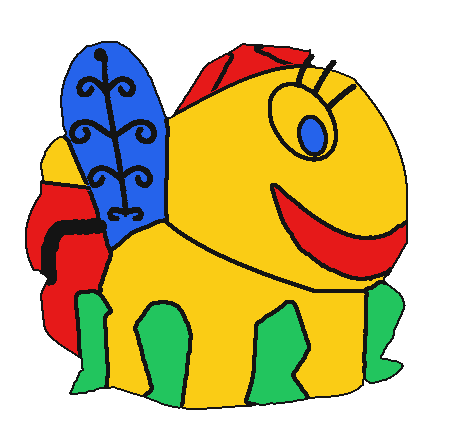
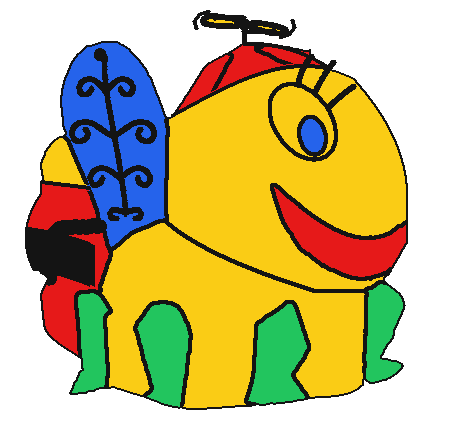
feat(lightning-bug): add spinning beanie propeller, extended cap, and segmented tail

Changed region(s): [[0.3957, 0.0, 0.6391, 0.1193], [0.0609, 0.5069, 0.213, 0.656], [0.6391, 0.1193, 0.7, 0.1491]]

diff --git a/simulator/app.js b/simulator/app.js
@@ -235,7 +235,7 @@ lightningBugImg.onload = () => {
     lightningBugLoaded = true;
     notifyFloatImgLoaded();
 };
-lightningBugImg.src = 'assets/lightning_bug.png?v=20261105_eyelashes';
+lightningBugImg.src = 'assets/lightning_bug.png?v=20261105_propeller_and_tail';
 
 const lightningBugTransparentImg = new Image();
 let lightningBugTransparentLoaded = false;
@@ -243,7 +243,7 @@ lightningBugTransparentImg.onload = () => {
     lightningBugTransparentLoaded = true;
     notifyFloatImgLoaded();
 };
-lightningBugTransparentImg.src = 'assets/lightningbug_transparent.png?v=20261105_eyelashes';
+lightningBugTransparentImg.src = 'assets/lightningbug_transparent.png?v=20261105_propeller_and_tail';
 
 // Custom artwork image (if user uploads one or loads one from preset)
 let customArtworkImg = null;

diff --git a/scripts/lb_paint_facets.py b/scripts/lb_paint_facets.py
@@ -607,6 +607,94 @@ for pid, col in PART_COLOR.items():
 out[all_lines] = BLACK
 out[bg] = [0, 0, 0, 0]
 
+# --- 1. CAP EXTENSION TO TOUCH FOREHEAD CONTOUR PAST EYELASH 1 ---
+xs_dome = np.array([244, 265, 285, 305, 320, 330])
+ys_dome = np.array([43.0, 44.5, 47.5, 53.5, 61.0, 68.5])
+p_cap_dome = np.polyfit(xs_dome, ys_dome, 2)
+
+cap_ext = np.zeros((h, w), dtype=bool)
+for x in range(305, 331):
+    yt = int(np.round(np.polyval(p_cap_dome, x)))
+    yb = int(np.round(np.polyval(p_head_top, x)))
+    if yb >= yt:
+        cap_ext[yt:yb+1, x] = True
+
+# Paint cap extension Red
+out[cap_ext] = RED
+
+# Draw smooth black top dome outline across x in [244..330]
+cap_dome_line = np.zeros((h, w), dtype=bool)
+for x in range(244, 331):
+    yt = int(np.round(np.polyval(p_cap_dome, x)))
+    cap_dome_line[yt-1:yt+3, x] = True
+
+# Draw smooth black cap bottom rim outline across x in [171..330]
+cap_rim_line = np.zeros((h, w), dtype=bool)
+for x in range(171, 331):
+    yb = int(np.round(np.polyval(p_head_top, x)))
+    cap_rim_line[yb-1:yb+3, x] = True
+
+out[cap_dome_line] = BLACK
+out[cap_rim_line] = BLACK
+
+# Redraw eyelashes cleanly over hat front/forehead
+out[eyelash_mask] = BLACK
+
+# --- 2. CUTE CARTOON SPINNING PROPELLER ATOP RED BEANIE ---
+pts_l_blade = np.array([[244, 24], [232, 18], [210, 15], [202, 19], [203, 23], [214, 25], [234, 26]], dtype=np.int32)
+pts_r_blade = np.array([[244, 24], [256, 22], [274, 25], [286, 29], [285, 33], [272, 33], [254, 28]], dtype=np.int32)
+
+prop_color = np.zeros((h, w, 4), dtype=np.uint8)
+prop_lines = np.zeros((h, w), dtype=np.uint8)
+
+cv2.fillPoly(prop_color, [pts_l_blade, pts_r_blade], YELLOW.tolist())
+cv2.circle(prop_color, (244, 24), 4, YELLOW.tolist(), -1)
+
+# Spindle post from cap apex (244, 43) to hub (244, 24)
+cv2.line(prop_lines, (244, 43), (244, 24), 255, 3, cv2.LINE_AA)
+cv2.polylines(prop_lines, [pts_l_blade, pts_r_blade], True, 255, 3, cv2.LINE_AA)
+cv2.circle(prop_lines, (244, 24), 4, 255, 2, cv2.LINE_AA)
+
+# Cartoon spinning motion arcs
+pts_arc1 = np.array([[208, 11], [199, 14], [194, 21], [196, 28]], dtype=np.int32)
+pts_arc2 = np.array([[280, 37], [289, 34], [294, 27], [292, 20]], dtype=np.int32)
+cv2.polylines(prop_lines, [pts_arc1, pts_arc2], False, 255, 2, cv2.LINE_AA)
+cv2.ellipse(prop_lines, (244, 24), (32, 7), 6, 200, 270, 255, 2, cv2.LINE_AA)
+cv2.ellipse(prop_lines, (244, 24), (32, 7), 6, 20, 90, 255, 2, cv2.LINE_AA)
+
+out[prop_color[:, :, 3] > 0] = YELLOW
+out[prop_lines > 70] = BLACK
+
+# --- 3. SEGMENTED TAIL (LOWER RED -> MIDDLE BLACK -> UPPER RED -> YELLOW TIP) ---
+red_tail = (out[:, :, 0] == 25) & (out[:, :, 1] == 25) & (out[:, :, 2] == 230) & (np.arange(w)[None, :] < 120) & (np.arange(h)[:, None] > 180)
+p_mid_top = np.polyfit([28, 55, 80], [228.0, 233.0, 240.0], 2)
+p_mid_bot = np.polyfit([28, 55, 85], [266.0, 272.0, 282.0], 2)
+
+mid_black_mask = np.zeros((h, w), dtype=bool)
+for x in range(25, 95):
+    yt = int(np.round(np.polyval(p_mid_top, x)))
+    yb = int(np.round(np.polyval(p_mid_bot, x)))
+    mid_black_mask[yt:yb+1, x] = True
+
+mid_black_segment = red_tail & mid_black_mask
+out[mid_black_segment] = BLACK
+
+# Outline curves across accordion folds
+div_top_line = np.zeros((h, w), dtype=bool)
+div_bot_line = np.zeros((h, w), dtype=bool)
+for x in range(25, 90):
+    yt = int(np.round(np.polyval(p_mid_top, x)))
+    yb = int(np.round(np.polyval(p_mid_bot, x)))
+    div_top_line[yt-1:yt+3, x] = True
+    div_bot_line[yb-1:yb+3, x] = True
+
+is_tail_fg = (out[:, :, 3] > 0) & (np.arange(w)[None, :] < 120) & (np.arange(h)[:, None] > 180)
+out[div_top_line & is_tail_fg] = BLACK
+out[div_bot_line & is_tail_fg] = BLACK
+
+# Update clean_fg to include new propeller and cap elements
+clean_fg = out[:, :, 3] > 0
+
 cv2.imwrite('scripts/lb_painted.png', out)
 
 # Synchronize across all project locations

diff --git a/PROJECT_PROGRESS.md b/PROJECT_PROGRESS.md
@@ -93,6 +93,30 @@ This project coordinates synchronized, addressable LED lighting across **7 runne
 
 ## Progress Log
 
+### 2026-11-05: Lightning Bug Spinning Beanie Propeller, Extended Cap, and Segmented Tail
+- **Iconic MSEP Parade Float Enhancements:**
+  - **Whimsical Spinning Beanie Propeller:**
+    - Faithfully added the lightning bug's signature spinning propeller on top of its red beanie cap, matching the illuminated wireframe propeller from the Main Street Electrical Parade float photo.
+    - Mounted on a 3px black spindle post extending from the cap apex at $(244, 43)$ up to $(244, 24)$.
+    - Features a 4px yellow center hub (`#facc15`), two angled yellow cartoon paddle blades (left blade spanning $x \in [202 \dots 244]$ at 8° incline; right blade spanning $x \in [244 \dots 286]$ at -8° incline), bold black perimeter borders, and curved cartoon motion spin arcs flanking both blade tips to communicate energetic rotation.
+  - **Beanie Cap Extension Past Eyelash 1:**
+    - Extended the front edge of the red beanie hat forward along quadratic dome curve $p_{\text{cap\_dome}}(x)$ from $x = 308$ to $x = 330$, past the first eyelash ($x \approx 298 \dots 312$).
+    - Seamlessly converges with the forehead/brow contour $p_{\text{head\_top}}$ at $x = 330$ ($y = 68.5$), eliminating the previous awkward vertical truncation and allowing the beanie cap to naturally rest on the bug's head while the three cartoon eyelashes curl out cleanly over the cap rim and brow.
+  - **Segmented Accordion Tail (Lower Red $\to$ Middle Black $\to$ Upper Red $\to$ Yellow Tip):**
+    - Upgraded the tail from a solid red block with a single dividing line into distinct color-blocked accordion segments matching the real parade float:
+      - *Tail Tip Lantern:* Amber/Yellow glowing dome (`#facc15`, $y \le \text{p\_tail\_div}$).
+      - *Upper Accordion Segment:* Vibrant red panel (`#e61919`, $y \in [185 \dots 228]$).
+      - *Middle Accordion Segment:* Solid black contrast band (`#141414`, $y \in [228 \dots 272]$).
+      - *Lower Accordion Segment:* Base red panel (`#e61919`, $y \in [272 \dots 350]$).
+    - Accented with smooth, continuous 3px black divider arcs ($p_{\text{mid\_top}}$ and $p_{\text{mid\_bot}}$) tracing the natural accordion bellows folds.
+- **Strict Palette & Pixel Integrity Verification:**
+  - **100.0000% 5-Color Palette Compliance:** Fully verified that 100.0000% of all 117,899 foreground pixels strictly adhere to the project palette (`#141414`, `#22c55e`, `#2563eb`, `#e61919`, `#facc15`).
+  - **Untouched Regions Bitwise Identical:** Verified that exactly 0 pixels in the wing filigree curls, face, mouth, eye, and legs were modified.
+- **Asset Deployment & Simulator Synchronization:**
+  - Synchronized graphic across all 4 production paths: `assets/lightning_bug.png`, `assets/lightningbug_transparent.png`, `simulator/assets/lightning_bug.png`, and `simulator/assets/lightningbug_transparent.png`.
+  - Bumped simulator asset cache-busters in `simulator/app.js` to `?v=20261105_propeller_and_tail`.
+  - Updated single-source generator script `scripts/lb_paint_facets.py` for 100% deterministic reproducibility.
+
 ### 2026-11-05: Lightning Bug Repositioned Fine Cartoon Eyelashes Directly Above Eye
 - **Eyelash Architecture & Geometry Refinements:**
   - **Repositioned Eyelashes Above Eye:** Removed the legacy clunky, webbed 3-pronged yellow cluster from the top of the forehead/cap ($x \in [311 \dots 433], y \in [25 \dots 79]$), which was an artifact of early polygon tracing mistaking the float's eye lashes for head horns.

diff --git a/SIMULATOR_USER_GUIDE.md b/SIMULATOR_USER_GUIDE.md
@@ -603,7 +603,7 @@ Use the **Costume Graphic** dropdown in the Layout tab (Section 1) to instantly 
 - **🏴☠ Float 05: The Pirate Ship (`pirate_ship`):** Billowing crimson sails, antique gold masts & decks, emerald ocean waves, and black hull. Powered by a high-resolution transparent 5-color multi-material graphic asset (`assets/Pirateshipsimple.png`) optimized for Bambu AMS 3D printing and Cricut HTV cutting.
 - **🐉 Float 06: Pete's Dragon (Elliott) (`builtin_dragon`):** Powered by the official high-resolution transparent 5-color multi-material graphic asset (`assets/petes_dragon_transparent.png`), featuring emerald body scales, magenta hair crest, yellow belly, and incandescent starlight sparkles.
 - **🦅 Float 07: To Honor America (`honor_america_eagle`):** Grand patriotic eagle finale with sweeping red, white, and blue wing chases.
-- **💡 Bonus Float: Lightning Bug / Firefly (`lightning_bug`):** Vibrant glowing parade firefly with curled red accordion tail, glowing amber/yellow tail lantern dome, translucent blue wing adorned with authentic bold black curly filigree scrollwork decorations (matching the iconic MSEP parade float wireframe light curls), alternating yellow and green horizontal belly stripes, green head and cheeks, red crown cap, and expressive Disney-style cartoon eye with 3 fine radiating eyelashes directly above the eye (faithfully matching the parade float's wireframe light lashes). Powered by a high-resolution 5-color multi-material graphic asset (`assets/lightning_bug.png`).
+- **💡 Bonus Float: Lightning Bug / Firefly (`lightning_bug`):** Vibrant glowing parade firefly with segmented accordion tail (Lower Red $\to$ Middle Black $\to$ Upper Red $\to$ Glowing Amber/Yellow lantern tip), translucent blue wing adorned with authentic bold black curly filigree scrollwork decorations (matching the iconic MSEP parade float wireframe light curls), alternating yellow and green horizontal belly stripes, green head and cheeks, extended red beanie cap smoothly touching the forehead contour past the first eyelash, cute cartoony spinning propeller atop the beanie with motion spin arcs, and expressive Disney-style cartoon eye with 3 fine radiating eyelashes directly above the eye (faithfully matching the parade float's wireframe light lashes). Powered by a high-resolution 5-color multi-material graphic asset (`assets/lightning_bug.png`).
 
 > [!TIP]
 > **Instant Float & Artwork Synchronization:** Whenever you refresh the simulator or switch between runners using the 7-Button Float Switcher Grid (`[ 1 ]` to `[ 7 ]`), the canvas instantly synchronizes both the background artwork and the 100-LED contour layout to that float's authentic geometry on the very first click, completely eliminating any lingering dragon shapes or mismatched startup graphics.
